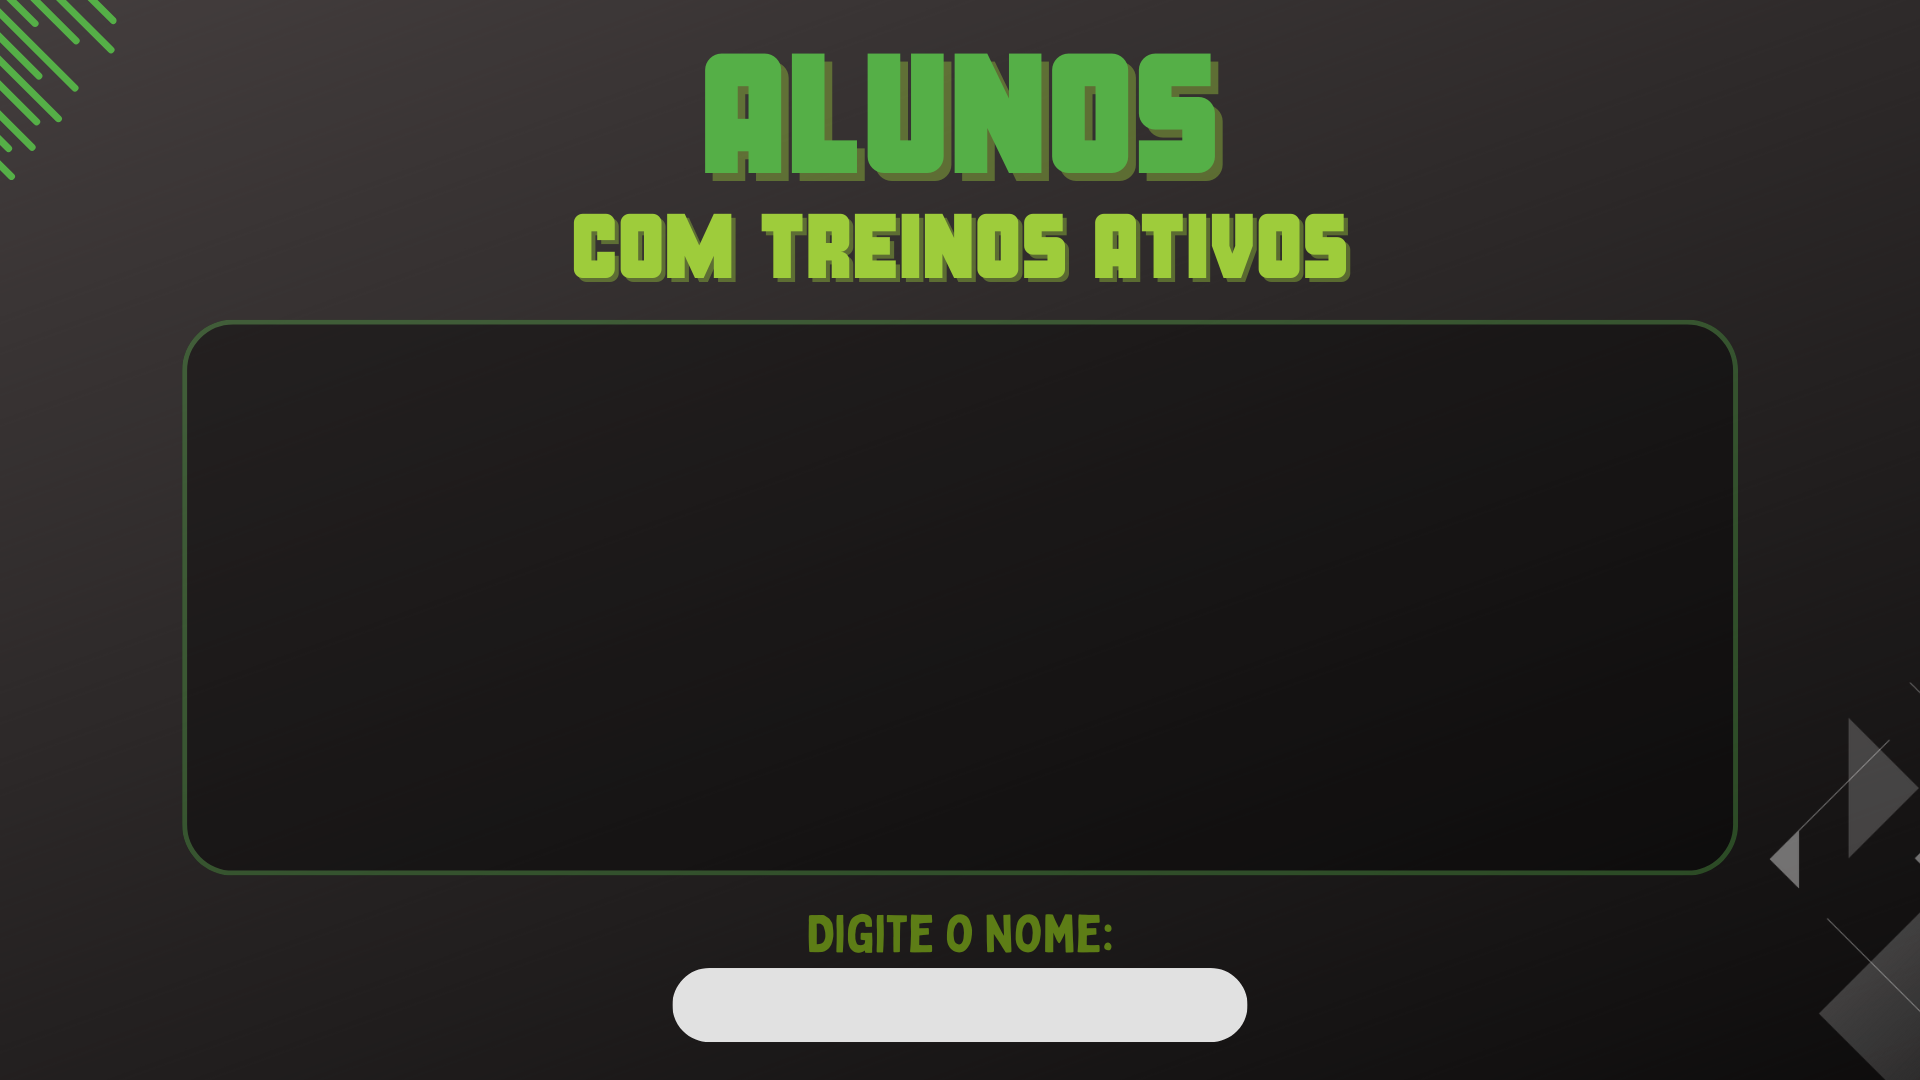
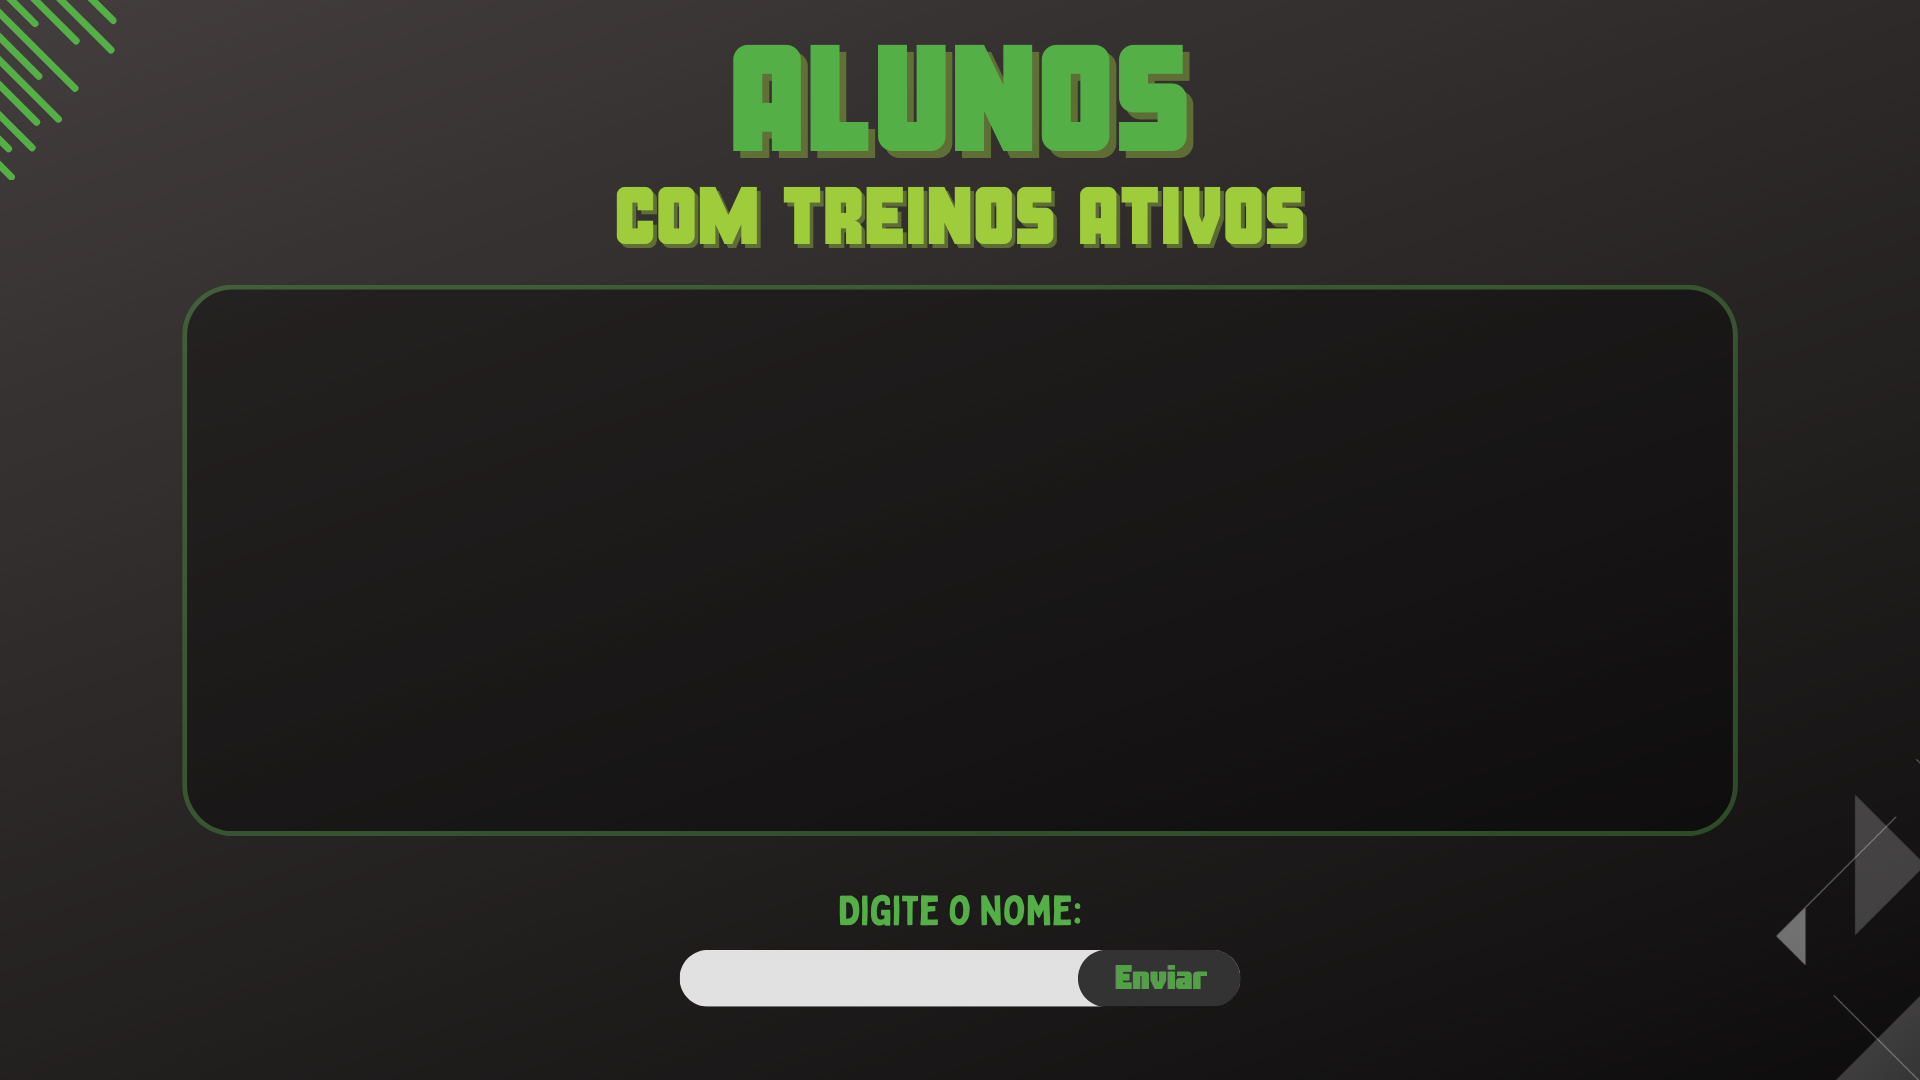
Ultimos ajustes, código praticamente pronto

Changed region(s): [[0.0938, 0.0306, 0.9062, 0.3361], [0.0938, 0.6722, 1.0, 1.0]]

diff --git a/main.py b/main.py
@@ -45,7 +45,7 @@ def criar_input(x, y, width, r, g, b):
     entrada.draw(window)
     return entrada
 
-
+# Tela de escolher Aluno ou Professor
 while tela_inicial:
     mouse = window.getMouse()
     if botao_professor.getP1().getX() < mouse.getX() < botao_professor.getP2().getX() and botao_professor.getP1().getY() < mouse.getY() < botao_professor.getP2().getY():
@@ -60,7 +60,7 @@ while tela_inicial:
 botao_login = Rectangle(Point(790, 637), Point(1129, 773))
 botao_criar_login = Rectangle(Point(840, 798), Point(1080, 850))
 erro = False
-
+#Login dos Alunos
 if botao_aluno:
     desenhar_background("img/telainicial.png", "img/tela_login.png")
     usuario_temporario = criar_input(1040, 483, 40, 166, 166, 166)
@@ -70,19 +70,23 @@ if botao_aluno:
         if mouse is not None and botao_login.getP1().getX() < mouse.getX() < botao_login.getP2().getX() and botao_login.getP1().getY() < mouse.getY() < botao_login.getP2().getY():
             usuario_input = usuario_temporario.getText()
             senha_input = senha_temporario.getText()
+            #Testa se o Usuario é válido
             if usuario_input in login_alunos and senha_input == login_alunos[usuario_input]:
                 tela_login = False
                 tela_loading = False
                 tela_treino = True
                 usuario_temporario.undraw()
                 senha_temporario.undraw()
+            #PopUp caso as credenciais estejam erradas
             else:
                 desenhar_background("img/tela_login.png", "img/erro_tela_login.png")
                 erro = True
+        #Tela de Cadastrar Novo Usuário
         else:
             if mouse is not None and botao_criar_login.getP1().getX() < mouse.getX() < botao_criar_login.getP2().getX() and botao_criar_login.getP1().getY() < mouse.getY() < botao_criar_login.getP2().getY():
                 tela_dados = True
                 tela_criar_login = True
+                #Testa se Houve o PopUp para apagar a tela Anterior
                 if erro:
                     desenhar_background("img/erro_tela_login.png", "img/criarlogin.png")
                 else:
@@ -90,6 +94,7 @@ if botao_aluno:
                 tela_login = False
                 usuario_temporario.undraw()
                 senha_temporario.undraw()
+#Login dos Instrutores
 else:
     desenhar_background("img/telainicial.png", "img/login_instrutor.png")
     usuario_temporario = criar_input(1040, 483, 40, 166, 166, 166)
@@ -99,22 +104,17 @@ else:
         if mouse is not None and botao_login.getP1().getX() < mouse.getX() < botao_login.getP2().getX() and botao_login.getP1().getY() < mouse.getY() < botao_login.getP2().getY():
             usuario_input = usuario_temporario.getText()
             senha_input = senha_temporario.getText()
+            #Testa se o Instrutor é valido
             if usuario_input in login_instrutores and senha_input == login_instrutores[usuario_input]:
                 tela_dados = False
                 tela_login = False
                 usuario_temporario.undraw()
                 senha_temporario.undraw()
+            #Mostra PopUp avisando que as credenciais estão erradas
             else:
-                desenhar_background("img/tela_login.png", "img/erro_tela_login.png")
+                desenhar_background("img/tela_login.png", "img/tela_erro_instrutor.png")
                 erro = True
-        else:
-            if mouse is not None and botao_criar_login.getP1().getX() < mouse.getX() < botao_criar_login.getP2().getX() and botao_criar_login.getP1().getY() < mouse.getY() < botao_criar_login.getP2().getY():
-                if erro:
-                    desenhar_background("img/erro_tela_login.png", "img/criarlogin.png")
-                else:
-                    desenhar_background("img/tela_login.png", "img/criarlogin.png")
-                tela_criar_login = True
-                tela_login = False
+                tela_criar_login = False
                 tela_dados = False
 if tela_criar_login:
     cadastro_usuario_temporario = criar_input(1040, 483, 40, 166, 166, 166)
@@ -308,7 +308,8 @@ if tela_treino:
 
 if botao_aluno is False:
     desenhar_background("img/login_instrutor.png", "img/escolher_aluno.png")
-    aluno_escolhido_temporario = criar_input(960, 1006, 55, 250, 250, 250)
+    tela_escolher_aluno = True
+    aluno_escolhido_temporario = criar_input(882, 980, 40, 250, 250, 250)
     with open("db/alunos.csv", "r") as arquivo:
         lista_alunos = []
         for linha in arquivo:
@@ -324,8 +325,6 @@ if botao_aluno is False:
         for i in range(quantidade_de_alunos//2, quantidade_de_alunos):
             segundoPrintAlunos.append(lista_alunos[i])
             segundoPrintAlunos_STR = "\n".join(segundoPrintAlunos)
-        print(primeiroPrintAlunos_STR)
-        print(segundoPrintAlunos_STR)
         output1_escolher_aluno = Text(Point(LARGURA // 3, ALTURA // 1.80), primeiroPrintAlunos_STR)
         output1_escolher_aluno.setSize(24)
         output1_escolher_aluno.setFill(color_rgb(225, 225, 225))
@@ -340,5 +339,50 @@ if botao_aluno is False:
         output1_escolher_aluno.draw(window)
         output2_escolher_aluno.draw(window)
     
-while True:
+while tela_escolher_aluno:
     mouse = window.getMouse()
+    botao_enviar = Rectangle(Point(1079.0, 953.0), Point(1239.0, 1003.0))
+    aluno_escolhido = aluno_escolhido_temporario.getText()
+    with open("db/treinos.csv", "r") as arquivo:
+        arquivo = arquivo.read()
+        arquivo = arquivo[:-1]
+        arquivo = arquivo[1:]
+        listaAlunos = []
+        listaTreinos = []
+        listaAlunosBruta = arquivo.split(">")
+        for i in listaAlunosBruta:
+            aluno, treino = i.split("$")
+            listaAlunos.append(aluno)
+            listaTreinos.append(treino)
+        for aluno in listaAlunos:
+            if aluno == usuario_input:
+                index = listaAlunos.index(aluno)
+                treino = listaTreinos[index]
+                break
+    listaTreino = treino.split(";")
+    blocosTexto = len(listaTreino)
+    primeiroPrintLista = []
+    for i in range(blocosTexto // 2):
+        primeiroPrintLista.append(listaTreino[i])
+        primeiroPrint = " ".join(primeiroPrintLista)
+    segundoPrintLista = []
+    for i in range(blocosTexto // 2, blocosTexto):
+        segundoPrintLista.append(listaTreino[i])
+        segundoPrint = " ".join(segundoPrintLista)
+
+    output1 = Text(Point(LARGURA // 3, ALTURA // 1.95), primeiroPrint)
+    output1.setSize(15)
+    output1.setFill(color_rgb(225, 225, 225))
+    output1.setStyle("bold")
+    output1.setFace("courier")
+    output2 = Text(Point(LARGURA // 3 * 2, ALTURA // 1.95), segundoPrint)
+    output2.setSize(15)
+    output2.setFill(color_rgb(225, 225, 225))
+    output2.setStyle("bold")
+    output2.setFace("courier")
+    aluno_escolhido_temporario.undraw()
+    desenhar_background("img/escolher_aluno.png","img/instrutor_treino_do_aluno.png")
+    output1.draw(window)
+    output2.draw(window)
+while True:
+    mouse = window.checkMouse()
